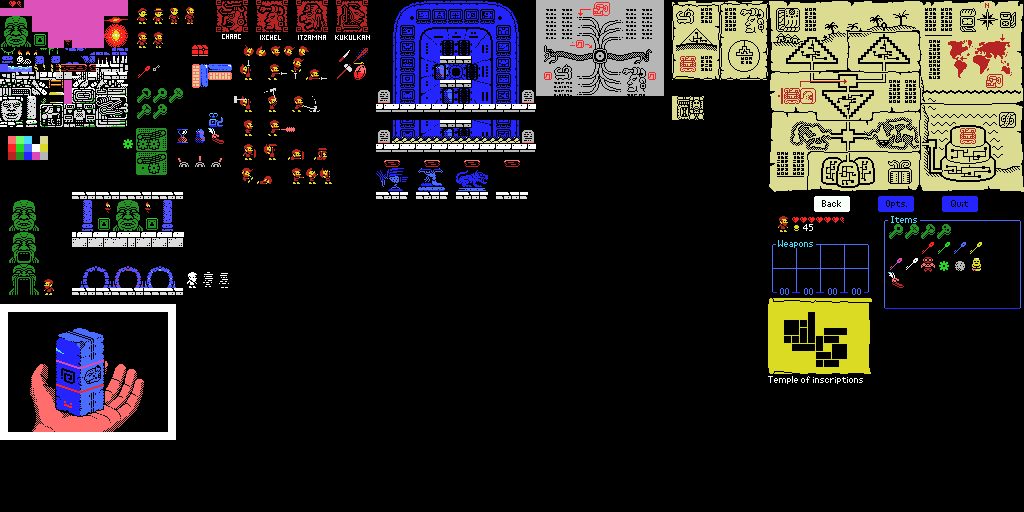
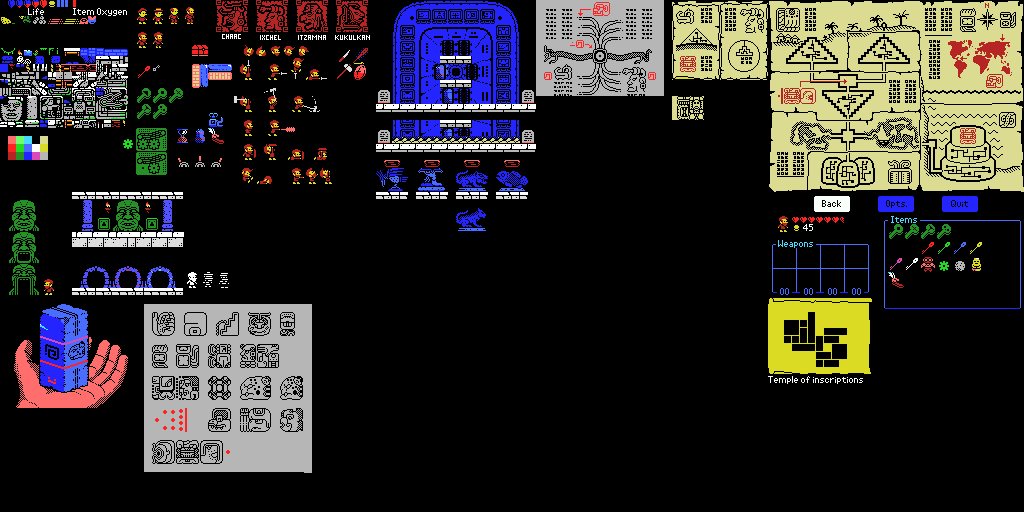
tablet with maya riddle spawned and rendered

diff --git a/java/src/xspelunker2/GenerateTiles.java b/java/src/xspelunker2/GenerateTiles.java
@@ -30,6 +30,7 @@ public class GenerateTiles {
         extractTilesObjects("data/objects.png", "src/autogenerated/tiles-objects");
         extractTilesBigObjects("data/objects.png", "src/autogenerated/tiles-large-objects");
         extractPowerStoneTiles("data/power-stone-tiles.png", "data/power-stone-1.tmx", "src/autogenerated/power-stone");
+        extractTiles("data/tablet-maya-tiles.png", "src/autogenerated/tablet-maya-tiles", 0, 12*8);
     }
     
     

diff --git a/java/src/pcg/AssemblerTags.java b/java/src/pcg/AssemblerTags.java
@@ -185,6 +185,8 @@ public class AssemblerTags {
         "TAG_CALENDAR_TABLET",
         "TAG_CALENDAR_SOCKET",
         "TAG_HALF_POWER_STONE",
+        "TAG_CALENDAR_STONE_CENTER",
+        "TAG_CALENDAR_TABLET",
     };
     
 
